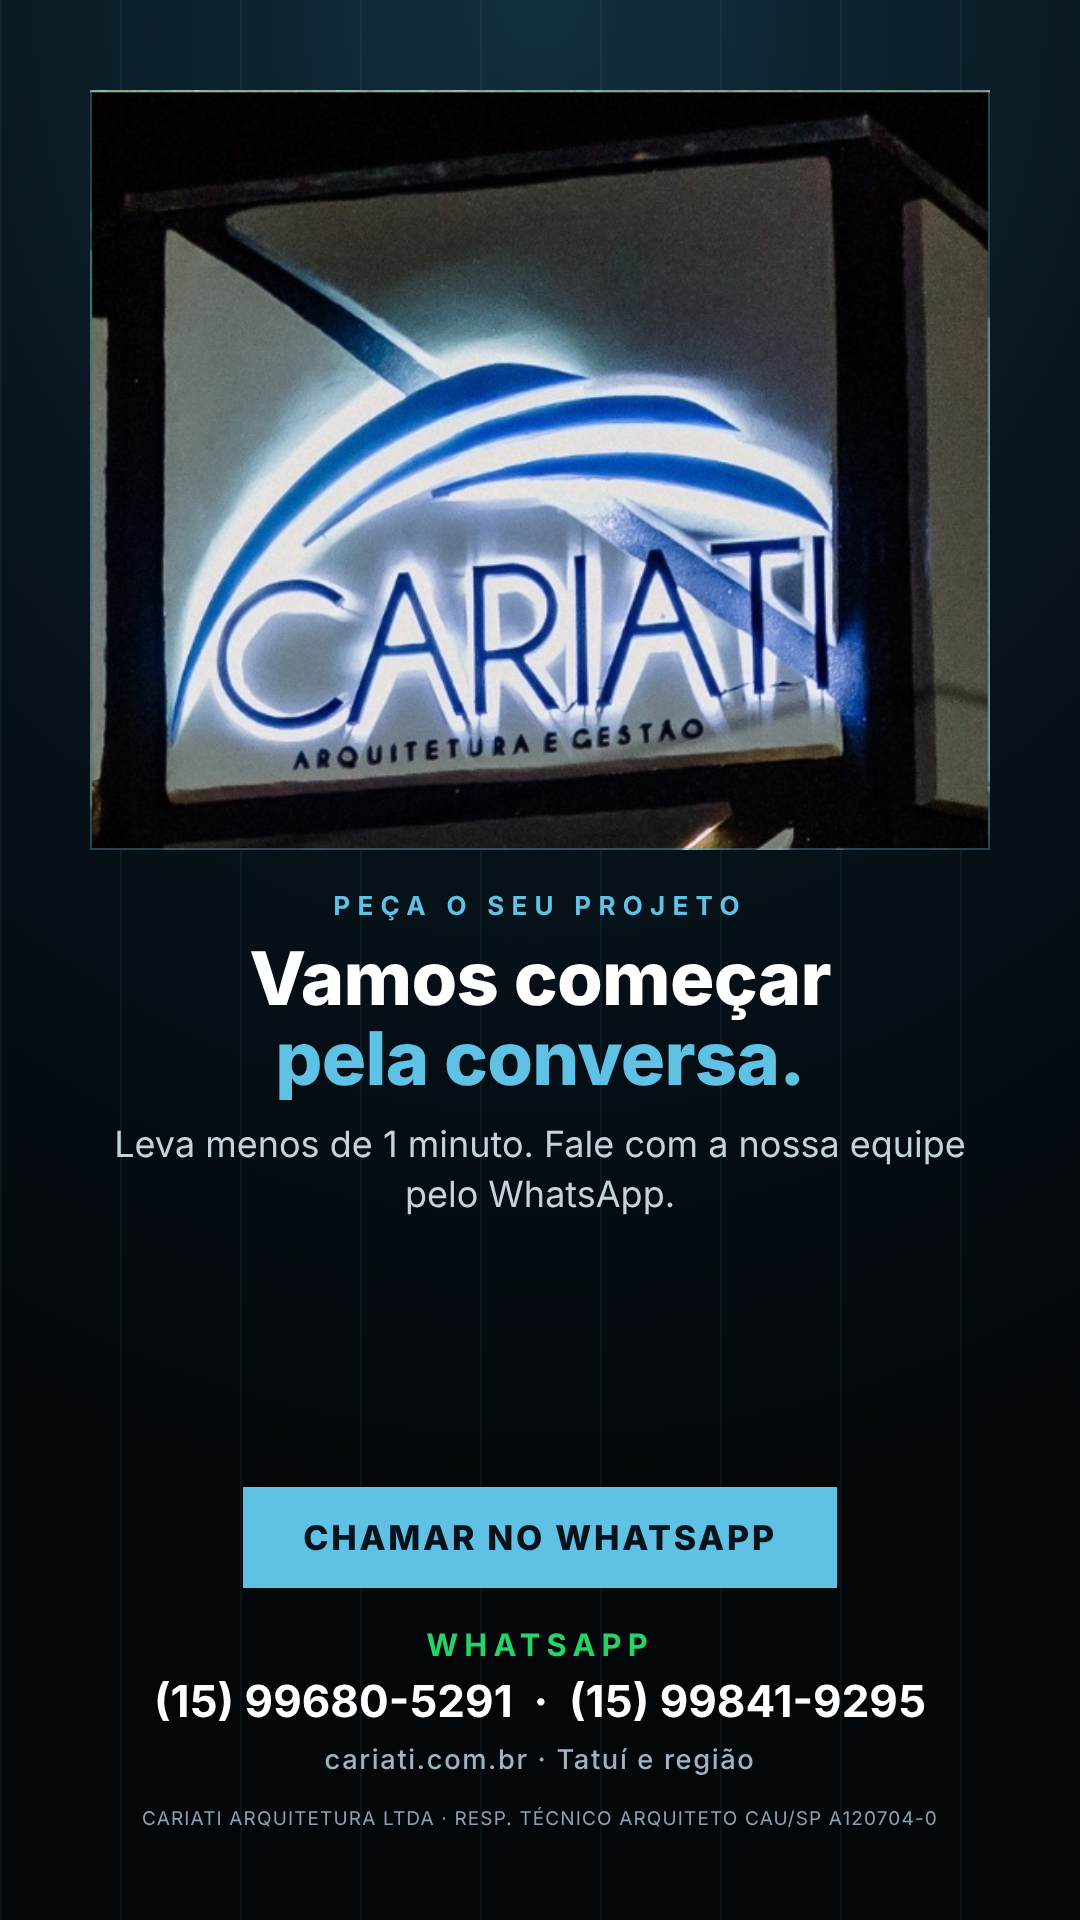
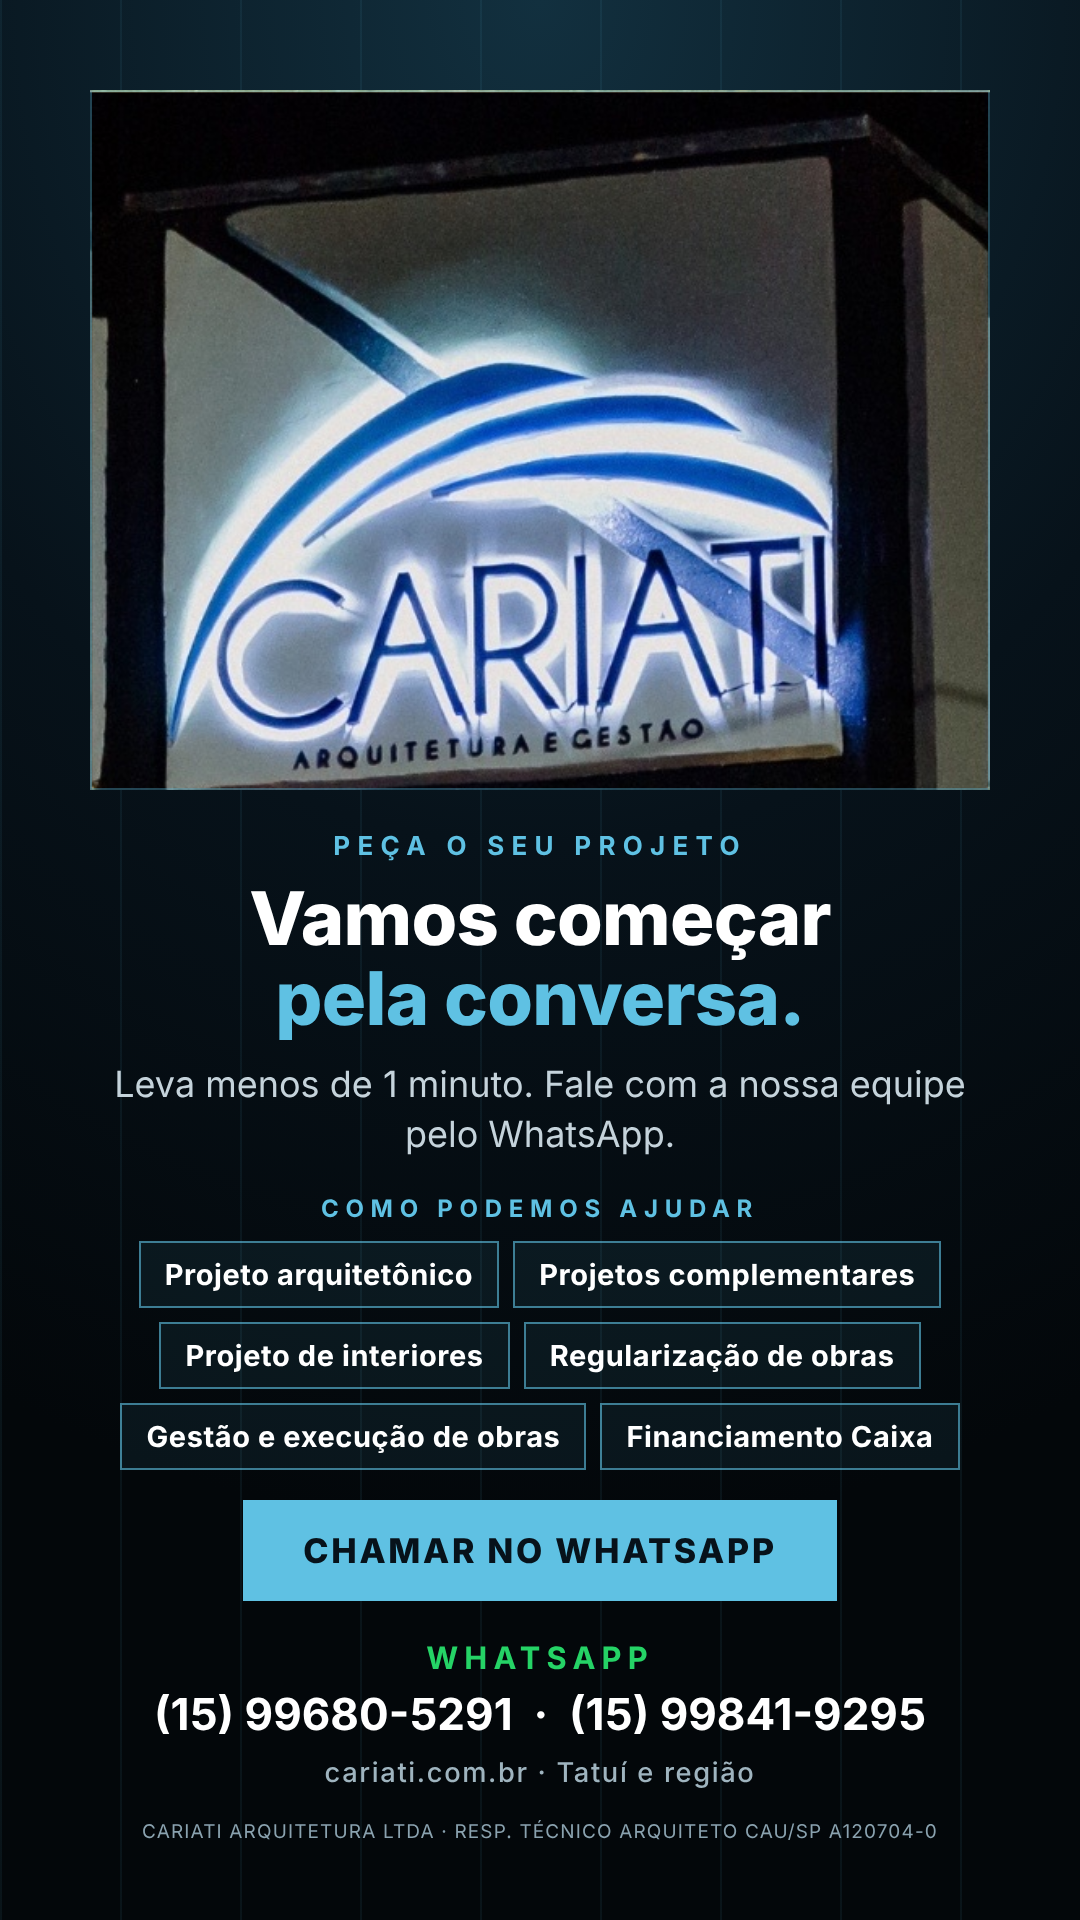
Flyer 04: add main services as hook chips
Claude-Session: https://claude.ai/code/session_012W4cPJrLBDcgKi33Cw4yCm

diff --git a/flyers_cariati/build.py b/flyers_cariati/build.py
@@ -27,6 +27,9 @@ h1 em{font-style:normal;color:#5fc1e3}
 .stat b{font-size:var(--big);font-weight:800;line-height:1}
 .stat b i{font-style:normal;color:#5fc1e3}
 .stat span{font-weight:800;letter-spacing:.3em;font-size:calc(var(--big)*.18)}
+.chips{display:flex;flex-wrap:wrap;justify-content:center;gap:var(--chg)}
+.chip{border:2px solid rgba(95,193,227,.6);color:#fff;font-weight:700;font-size:var(--chf);padding:var(--chp);letter-spacing:.02em;background:rgba(95,193,227,.08)}
+.chips.l{justify-content:flex-start}
 .grid3{display:grid;grid-template-columns:1fr 1fr 1fr;gap:var(--g3)}
 .card{background:rgba(255,255,255,.05);border-top:4px solid #5fc1e3;padding:var(--cd)}
 .card .l{font-size:var(--cl);font-weight:800;color:#5fc1e3}
@@ -48,6 +51,7 @@ LIGHT="""
 .light .list li:before{background:#2a7c99}.light .list li span{color:#5b6c77}
 .light .card{background:#fff;border-top-color:#2a7c99;box-shadow:0 6px 22px rgba(11,31,43,.08)}
 .light .card .l{color:#2a7c99}.light .card p{color:#4a5b66}
+.light .chip{border-color:#2a7c99;color:#0b1f2b;background:rgba(42,124,153,.08)}
 .light .stat b i{color:#2a7c99}
 """
 def page(w,h,body,vars_,light=False):
@@ -61,12 +65,14 @@ PH=mkph('(15) 99841-9295')
 PH2=mkph('(15) 99841-9295')
 FOOT='<div class="foot z">CARIATI ARQUITETURA LTDA · RESP. TÉCNICO ARQUITETO CAU/SP A120704-0</div>'
 V=dict(w=1080,h=1920)
-VV=dict(p="90px",lh="190px",e="26px",h1="74px",s="36px",g="36px",c="34px",cp="30px 60px",t="44px",fs="19px",ls="42px",lg="30px",big="260px",g3="22px",cd="26px",cl="30px",ch="38px",cp2="27px")
-SQ=dict(p="64px",lh="140px",e="21px",h1="64px",s="28px",g="26px",c="27px",cp="22px 46px",t="34px",fs="15px",ls="35px",lg="24px",big="150px",g3="16px",cd="22px",cl="26px",ch="32px",cp2="23px")
+VV=dict(p="90px",lh="190px",e="26px",h1="74px",s="36px",g="36px",c="34px",cp="30px 60px",t="44px",fs="19px",ls="42px",lg="30px",big="260px",chg="14px",chf="29px",chp="14px 24px",g3="22px",cd="26px",cl="30px",ch="38px",cp2="27px")
+SQ=dict(p="64px",lh="140px",e="21px",h1="64px",s="28px",g="26px",c="27px",cp="22px 46px",t="34px",fs="15px",ls="35px",lg="24px",big="150px",chg="8px",chf="19px",chp="8px 14px",g3="16px",cd="22px",cl="26px",ch="32px",cp2="23px")
 def photo(img,h,pos="center"):
     return f"<div class='photo z' style=\"flex:none;height:{h}px;background-image:url('assets/{img}');background-position:{pos}\"></div>"
 def sp(n): return f"<div style='height:{n}px;flex:none'></div>"
 def flex(): return "<div style='flex:1'></div>"
+SERV=["Projeto arquitetônico","Projetos complementares","Projeto de interiores","Regularização de obras","Gestão e execução de obras","Financiamento Caixa"]
+def chips(extra=''): return f'<div class="chips z {extra}">'+''.join(f'<span class=chip>{x}</span>' for x in SERV)+'</div>'
 F={}
 # 1 tudo em um só lugar
 def f1(vert):
@@ -92,8 +98,8 @@ def f3(vert):
 # 4 chamada orçamento com foto real
 def f4(vert):
     if vert:
-        return photo("fachada.jpg",760,"center top")+sp(40)+'<div class="eyebrow z">Peça o seu projeto</div>'+sp(18)+'<h1 class=z>Vamos começar<br><em>pela conversa.</em></h1>'+sp(20)+'<p class="sub z">Leva menos de 1 minuto. Fale com a nossa equipe pelo WhatsApp.</p>'+flex()+'<div class="cta z">Chamar no WhatsApp</div>'+sp(34)+PH+sp(26)+FOOT
-    return f"<div class='z' style='display:flex;gap:34px;flex:1'><div class='photo' style=\"width:370px;background-image:url('assets/fachada.jpg');background-position:center top\"></div><div style='flex:1;display:flex;flex-direction:column;justify-content:center;gap:16px'><div class='eyebrow' style='text-align:left'>Peça o seu projeto</div><h1 style='text-align:left'>Vamos começar <em>pela conversa.</em></h1><p class='sub' style='text-align:left'>Leva menos de 1 minuto.</p><div class='cta' style='align-self:flex-start'>Chamar no WhatsApp</div>{PH.replace('contact z','contact z\" style=\"text-align:left').replace(' &nbsp;·&nbsp; ','<br>')}</div></div>"+sp(14)+FOOT
+        return photo("fachada.jpg",700,"center 0%")+sp(40)+'<div class="eyebrow z">Peça o seu projeto</div>'+sp(18)+'<h1 class=z>Vamos começar<br><em>pela conversa.</em></h1>'+sp(20)+'<p class="sub z">Leva menos de 1 minuto. Fale com a nossa equipe pelo WhatsApp.</p>'+sp(34)+'<div class="eyebrow z" style="font-size:24px">Como podemos ajudar</div>'+sp(18)+chips()+flex()+sp(30)+'<div class="cta z">Chamar no WhatsApp</div>'+sp(34)+PH+sp(26)+FOOT
+    return f"<div class='z' style='display:flex;gap:34px;flex:1'><div class='photo' style=\"width:370px;background-image:url('assets/fachada.jpg');background-position:center top\"></div><div style='flex:1;display:flex;flex-direction:column;justify-content:center;gap:16px'><div class='eyebrow' style='text-align:left'>Peça o seu projeto</div><h1 style='text-align:left'>Vamos começar <em>pela conversa.</em></h1><p class='sub' style='text-align:left'>Leva menos de 1 minuto.</p>{chips('l')}<div class='cta' style='align-self:flex-start'>Chamar no WhatsApp</div>{PH.replace('contact z','contact z\" style=\"text-align:left').replace(' &nbsp;·&nbsp; ','<br>')}</div></div>"+sp(14)+FOOT
 FL=[("01_tudo_em_um_so_lugar",f1),("02_400_obras",f2),("03_metodo_ppg",f3),("04_vamos_conversar",f4)]
 import json
 jobs=[]
